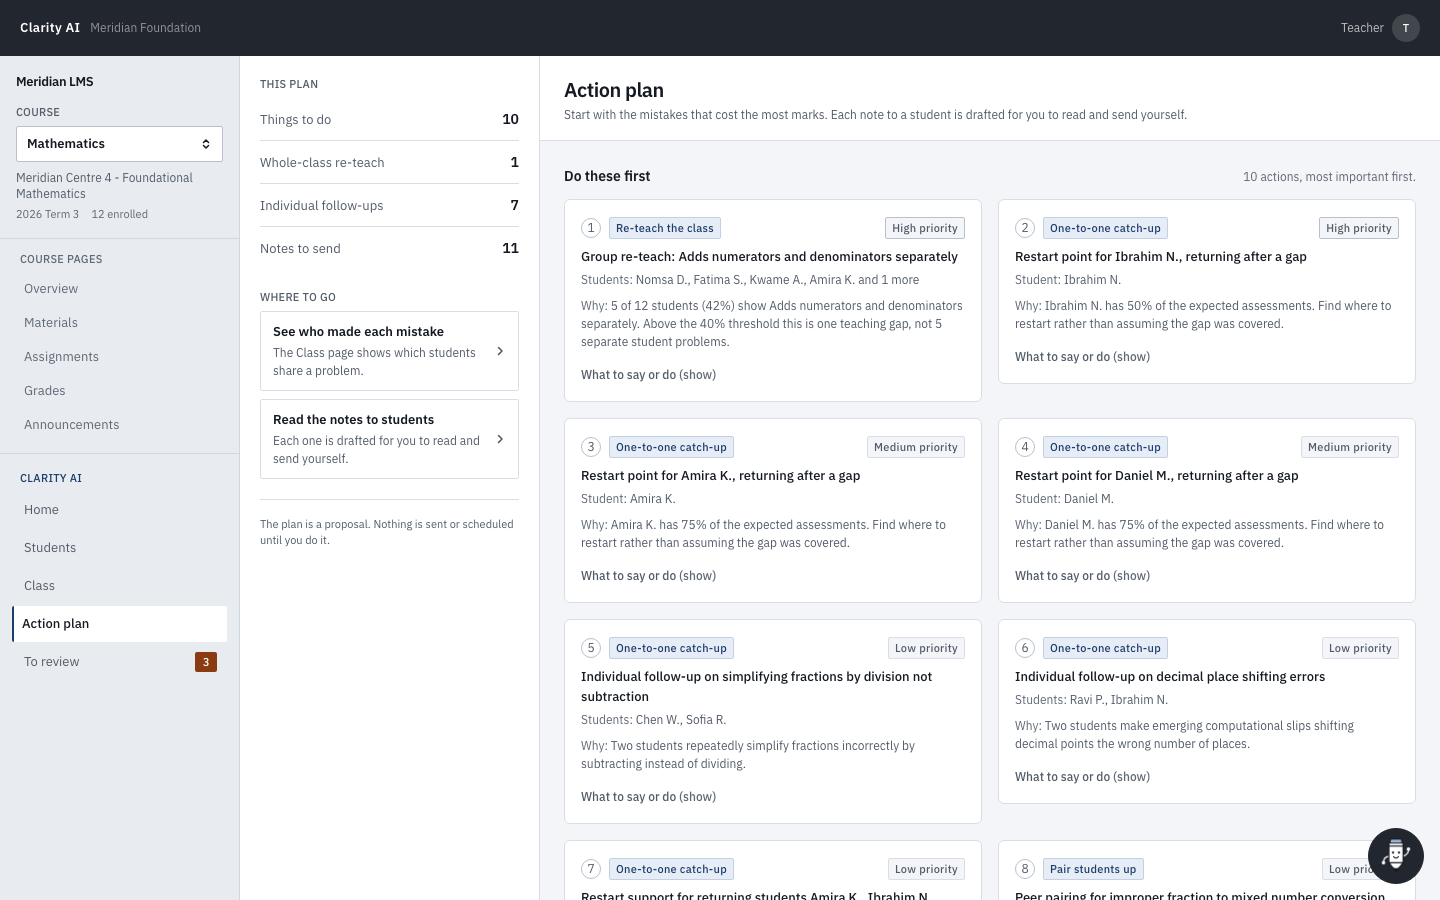
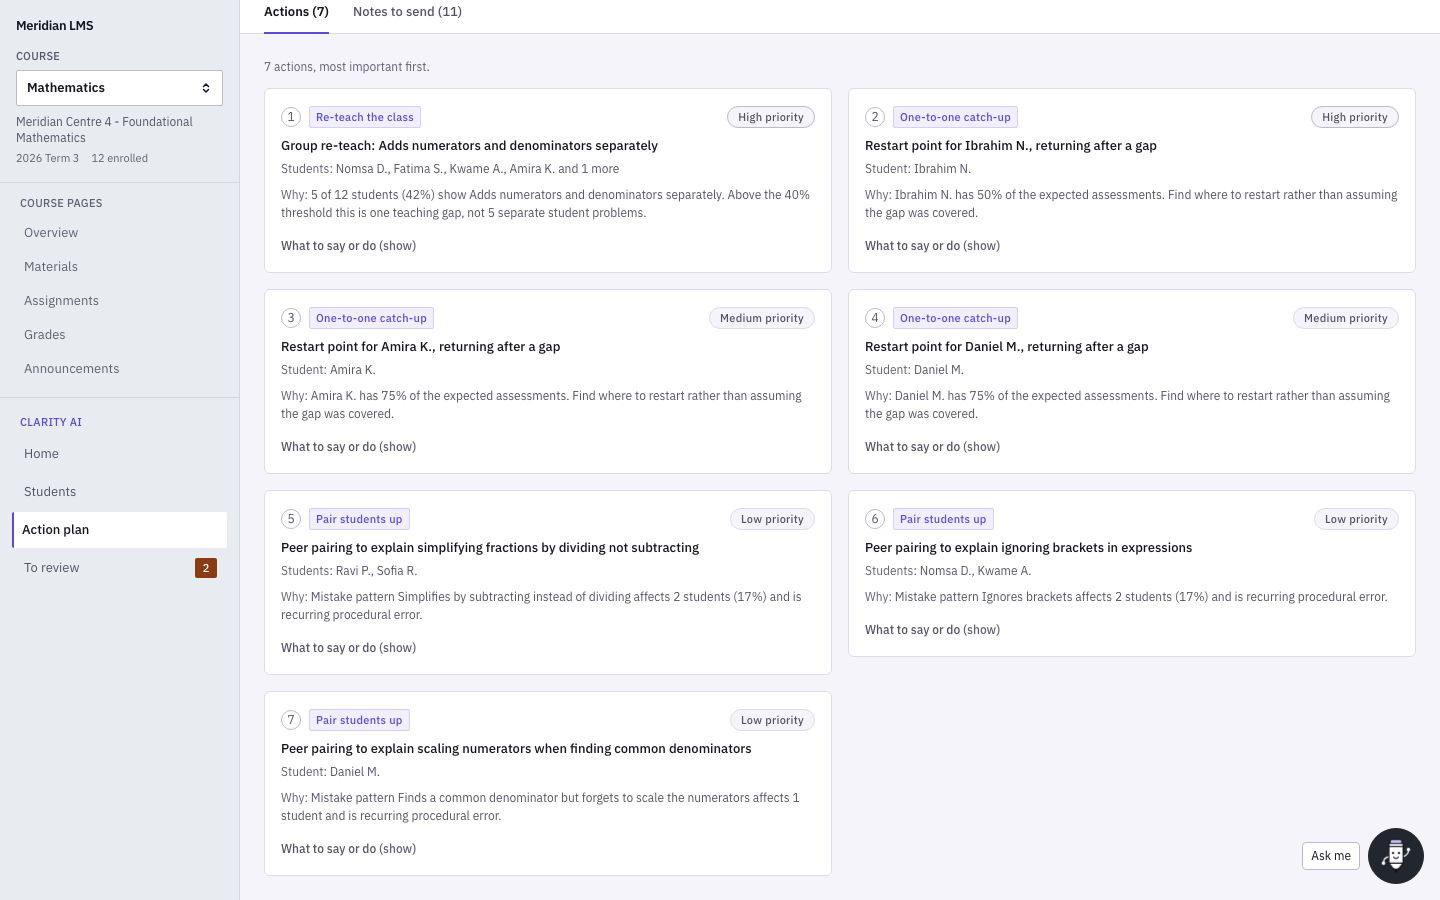
docs: refresh screenshots for the new Home and violet palette
The Class page is gone, so its screenshot is replaced by the heatmap as
it now sits on Home. Home, Students, Action plan and To review are
re-shot in the new palette.

diff --git a/README.md b/README.md
@@ -70,7 +70,7 @@ A facilitator uploads a test. Six agents take it from there, and the facilitator
 <table>
   <tr>
     <td width="33%"><img src="docs/screenshots/review.png" alt="Needs your call queue" /></td>
-    <td width="33%"><img src="docs/screenshots/class.png" alt="Class view of shared mistakes" /></td>
+    <td width="33%"><img src="docs/screenshots/mistakes.png" alt="Who made which mistake, on Home" /></td>
     <td width="33%"><img src="docs/screenshots/plan.png" alt="Action plan" /></td>
   </tr>
   <tr>
